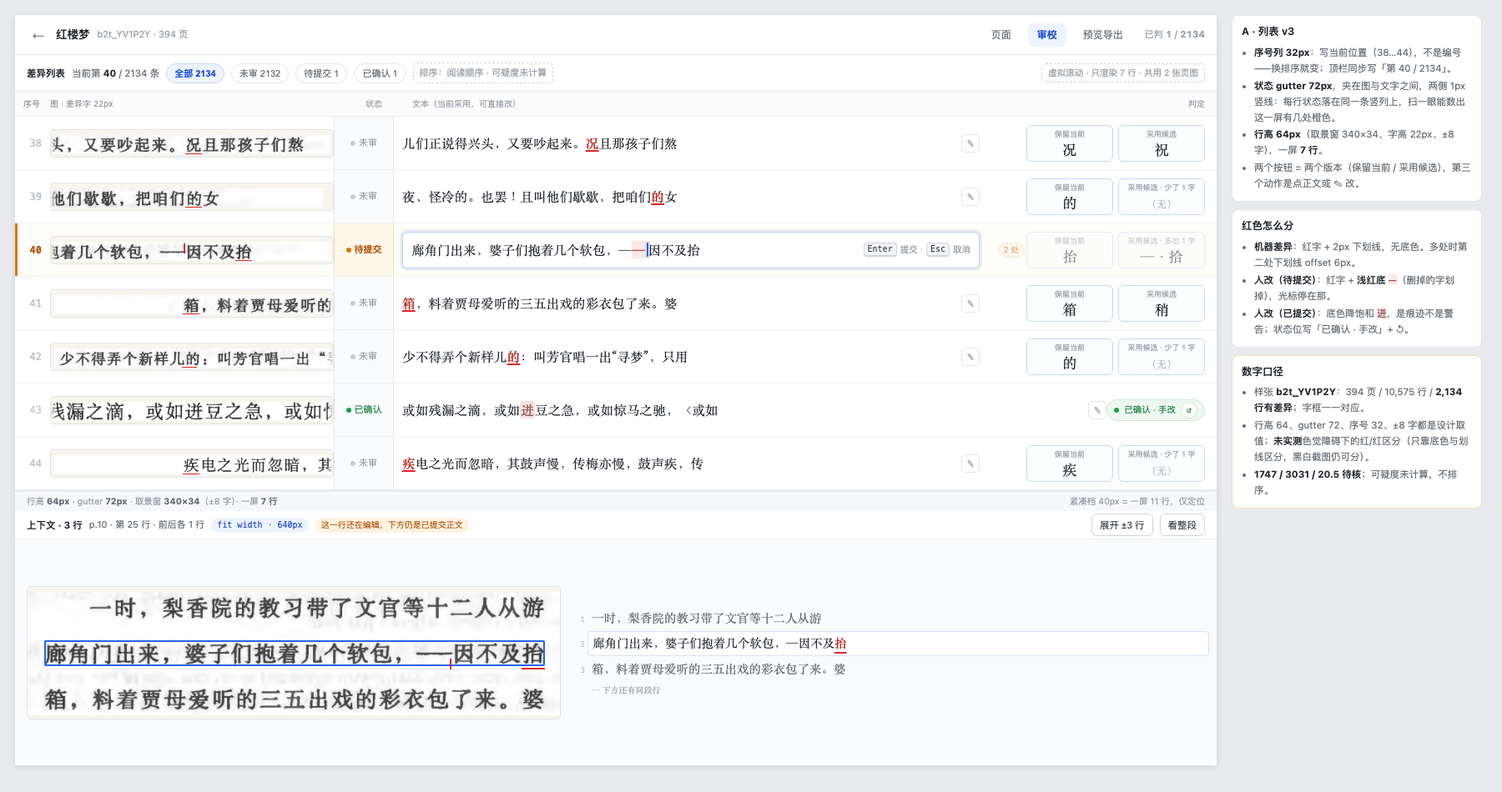
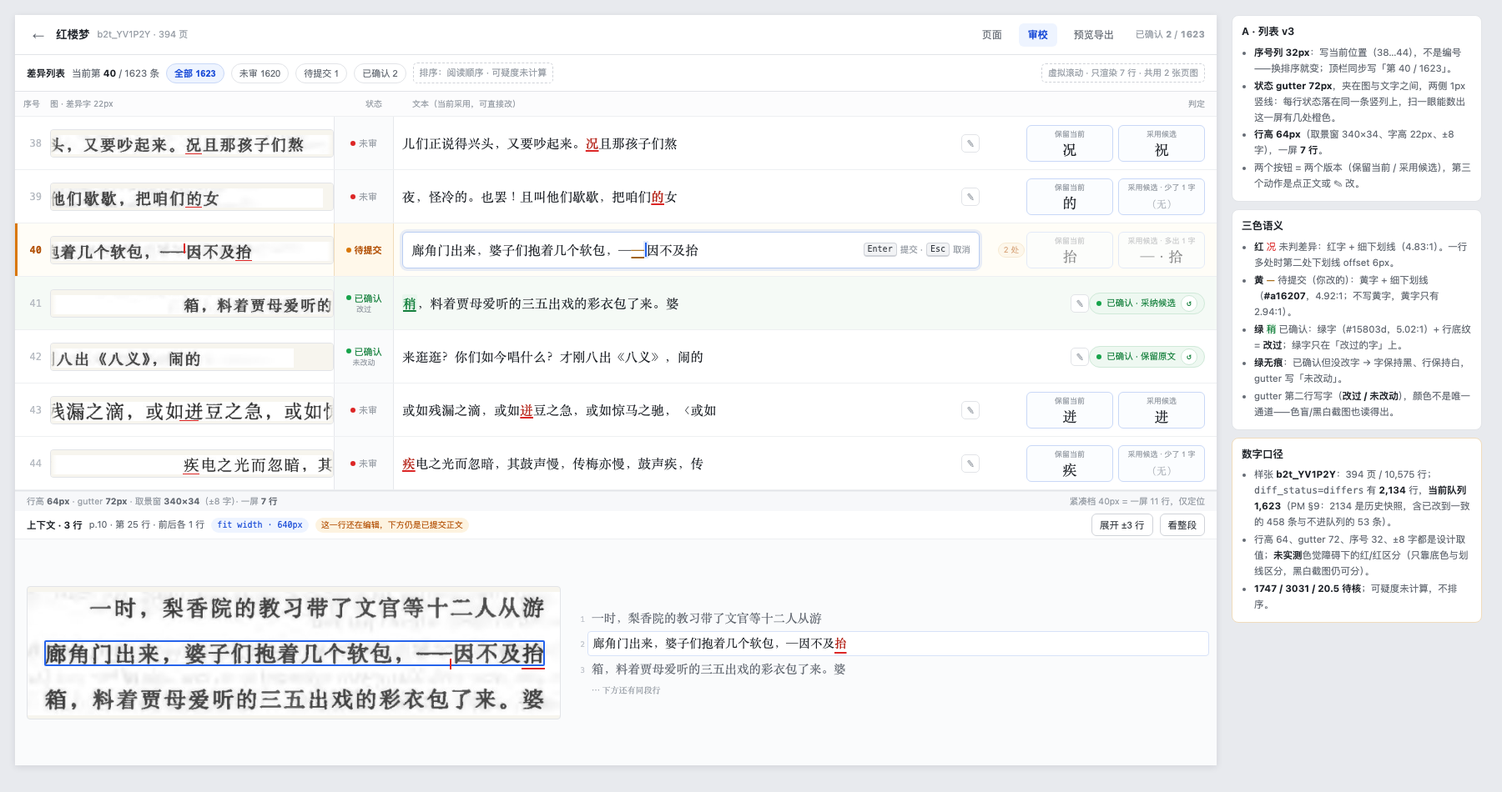
docs(ux): 四态同屏帧 C + 三色语义（红/黄/绿）与展开条；队列分母改 1623

diff --git a/docs/ux/review-cat-list-v3-mockup.html b/docs/ux/review-cat-list-v3-mockup.html
@@ -34,6 +34,8 @@ body{font:13px/1.5 -apple-system,BlinkMacSystemFont,"Segoe UI","PingFang SC","Hi
 .lhd .c4{flex:1;padding-left:10px}.lhd .c5{width:270px;text-align:right}
 .row{height:64px;display:flex;align-items:center;padding:0 14px 0 10px;border-bottom:1px solid var(--line2);position:relative;background:#fff}
 .row.cur{background:#fffdf7}
+.row.done_changed{background:#f5faf6}
+.row.done_changed .gut{background:#f2f8f4}
 .row.cur::before{content:"";position:absolute;left:0;top:0;bottom:0;width:3px;background:var(--warn)}
 .no{width:32px;flex:none;font:12px/1 var(--mono);color:#b6bbc2;text-align:right;padding-right:10px}
 .row.cur .no{color:var(--warntext);font-weight:700}
@@ -49,14 +51,19 @@ body{font:13px/1.5 -apple-system,BlinkMacSystemFont,"Segoe UI","PingFang SC","Hi
   border-left:1px solid #e6e8ec;border-right:1px solid #e6e8ec;font-size:11px;color:var(--faint);background:#fafbfc}
 .row.cur .gut{background:#fff8ea;border-color:#f0dcbc}
 .gut .dot{width:6px;height:6px;border-radius:50%;background:#c8ccd2;flex:none}
+.gut{flex-direction:column;gap:1px;line-height:1.25}
+.gut .g1{display:flex;align-items:center;gap:4px;font-size:11px}
+.gut .g2{font-size:9px;color:var(--faint)}
+.gut.st-un .dot{background:#dc2626}
 .gut.st-ok{color:var(--oktext)}.gut.st-ok .dot{background:var(--ok)}
-.gut.st-ed{color:var(--warntext);font-weight:650}.gut.st-ed .dot{background:var(--warn)}
+.gut.st-ed{color:var(--warntext);font-weight:650}.gut.st-ed .dot{background:#d97706}
 .tx{flex:1;min-width:0;font:15.5px/1.5 var(--book);white-space:nowrap;overflow:hidden;text-overflow:ellipsis;color:var(--text);letter-spacing:.2px;padding-left:10px}
 .d{color:var(--bad);font-weight:600;text-decoration:underline;text-decoration-color:var(--ul);text-decoration-thickness:2px;text-underline-offset:3px}
 .d2{color:var(--bad);font-weight:600;text-decoration:underline;text-decoration-color:var(--ul);text-decoration-thickness:2px;text-underline-offset:6px}
-.hd{color:#8a4b44;background:#f6e2df;border-radius:2px;padding:0 1px}
-.e{color:var(--bad);font-weight:600;background:#fde7e4;border-radius:2px;padding:0 1px}
-.rm{color:#9c5148;background:#fde7e4;border-radius:2px;padding:0 1px;text-decoration:line-through;text-decoration-thickness:1.5px}
+.hd{color:#15803d;background:#eaf6ee;border-radius:2px;padding:0 1px}
+.chg{color:#15803d;font-weight:600;text-decoration:underline;text-decoration-color:#15803d;text-decoration-thickness:1.5px;text-underline-offset:3px;background:#eaf6ee;border-radius:2px;padding:0 1px}
+.e{color:#a16207;font-weight:600;text-decoration:underline;text-decoration-color:#a16207;text-decoration-thickness:1.5px;text-underline-offset:3px}
+.rm{color:#a16207;text-decoration:line-through;text-decoration-color:#a16207;text-decoration-thickness:1.5px}
 .ins{color:var(--bad);font-size:12px;vertical-align:2px;opacity:.75}
 .pen{width:22px;height:22px;flex:none;border:1px solid var(--line);background:#fff;border-radius:5px;color:var(--faint);font-size:11px;line-height:20px;text-align:center;padding:0;margin-left:8px}
 .field{flex:1;min-width:0;height:44px;display:flex;align-items:center;background:#fff;border:1px solid #b9cdf2;border-radius:6px;box-shadow:0 0 0 3px rgba(37,99,235,.10);padding:0 10px;margin-left:10px}
@@ -75,6 +82,17 @@ kbd{font:10px/1 var(--mono);background:#f2f3f5;border:1px solid var(--line3);bor
 .con{flex:none;display:flex;align-items:center;gap:6px;font-size:10.5px;color:var(--oktext);background:var(--oksoft);border:1px solid #cfe9d8;border-radius:14px;height:26px;padding:0 8px}
 .dotg{width:6px;height:6px;border-radius:50%;background:var(--ok)}
 .undo{width:20px;height:20px;border:1px solid #cfe9d8;background:#fff;border-radius:50%;font-size:10px;color:var(--oktext);line-height:18px;padding:0}
+.legend{height:46px;flex:none;display:flex;align-items:center;gap:18px;padding:0 16px;background:#fff;border-bottom:1px solid var(--line)}
+.lg{display:flex;align-items:center;gap:6px;font-size:11px;color:var(--muted)}
+.sw{width:22px;height:14px;border-radius:3px;border:1px solid var(--line3);display:inline-block}
+.sw.r{background:#fff;border-color:#f0c4c4;box-shadow:inset 0 -2px 0 #dc2626}
+.sw.y{background:#fff;border-color:#efd6ae;box-shadow:inset 0 -2px 0 #a16207}
+.sw.g1{background:#f5faf6;border-color:#cfe9d8;box-shadow:inset 0 -2px 0 #15803d}
+.sw.g2{background:#fff;border-color:#cfe9d8;box-shadow:inset 0 -2px 0 #15803d}
+.expand{display:flex;align-items:center;gap:10px;padding:0 14px 0 46px;height:40px;background:#fbfdfb;border-bottom:1px solid var(--line2);font-size:11.5px;color:var(--muted)}
+.expand .k{font-size:10px;color:#15803d;background:#eaf6ee;border-radius:9px;padding:1px 7px}
+.expand .v{font:13.5px/1.4 var(--book);color:var(--text)}
+.expand .arw{color:var(--faint)}
 .foot{height:24px;flex:none;display:flex;align-items:center;gap:10px;padding:0 14px;background:var(--s3);border-top:1px solid var(--line2);font-size:10.5px;color:var(--faint)}
 .foot b{color:var(--muted)}
 .ctx{flex:1;display:flex;flex-direction:column;min-height:0;background:var(--s2)}
@@ -124,16 +142,17 @@ kbd{font:10px/1 var(--mono);background:#f2f3f5;border:1px solid var(--line3);bor
 <div class="wrap"><div class="frame" id="FA" style="width:1440px;height:900px">
   <div class="top"><button class="ib">←</button><span class="bk">红楼梦</span><span class="sub">b2t_YV1P2Y · 394 页</span>
     <span class="spacer"></span><span class="tab">页面</span><span class="tab on">审校</span><span class="tab">预览导出</span>
-    <span class="sub" style="margin-left:6px">已判 <b class="num">1</b> / <b class="num">2134</b></span></div>
-  <div class="bar"><b>差异列表</b><span>当前第 <b class="num">40</b> / 2134 条</span>
-    <button class="fchip on">全部 2134</button><button class="fchip">未审 2132</button><button class="fchip">待提交 1</button><button class="fchip">已确认 1</button>
+    <span class="sub" style="margin-left:6px">已确认 <b class="num">2</b> / <b class="num">1623</b></span></div>
+  <div class="bar"><b>差异列表</b><span>当前第 <b class="num">40</b> / 1623 条</span>
+    <button class="fchip on">全部 1623</button><button class="fchip">未审 1620</button><button class="fchip">待提交 1</button><button class="fchip">已确认 2</button>
     <span class="sort">排序：阅读顺序 · 可疑度未计算</span>
     <span class="spacer"></span><span class="virt">虚拟滚动 · 只渲染 7 行 · 共用 2 张页图</span></div>
   <div class="list"><div class="lhd"><span class="c c1">序号</span><span class="c c2">图 · 差异字 22px</span><span class="c c3">状态</span><span class="c c4">文本（当前采用，可直接改）</span><span class="c c5">判定</span></div>
     <div class="row un">
   <div class="no">38</div>
   <div class="shot"><div class="im pg10" style="background-size:760.2px 1145.8px;background-position:-333.2px -622.1px"><i class="u" style="left:160.9px;top:22.0px;width:20.5px"></i></div></div>
-  <div class="gut st-un"><span class="dot"></span>未审</div>
+  <div class="gut st-un"><span class="g1"><span class="dot"></span>未审</span>
+    </div>
   <span class="tx">儿们正说得兴头，又要吵起来。<span class="d">况</span>且那孩子们熬</span><button class="pen" title="直接改这一行">✎</button>
   <div class="vwrap">
       <button class="vbtn"><span class="vl">保留当前</span><span class="vc">况</span></button>
@@ -142,7 +161,8 @@ kbd{font:10px/1 var(--mono);background:#f2f3f5;border:1px solid var(--line3);bor
 </div><div class="row un">
   <div class="no">39</div>
   <div class="shot"><div class="im pg10" style="background-size:760.2px 1145.8px;background-position:-434.7px -661.2px"><i class="u" style="left:160.6px;top:22.0px;width:20.5px"></i></div></div>
-  <div class="gut st-un"><span class="dot"></span>未审</div>
+  <div class="gut st-un"><span class="g1"><span class="dot"></span>未审</span>
+    </div>
   <span class="tx">夜，怪冷的。也罢！且叫他们歇歇，把咱们<span class="d">的</span>女</span><button class="pen" title="直接改这一行">✎</button>
   <div class="vwrap">
       <button class="vbtn"><span class="vl">保留当前</span><span class="vc">的</span></button>
@@ -151,40 +171,42 @@ kbd{font:10px/1 var(--mono);background:#f2f3f5;border:1px solid var(--line3);bor
 </div><div class="row edit cur">
   <div class="no">40</div>
   <div class="shot"><div class="im pg10" style="background-size:760.2px 1145.8px;background-position:-395.6px -936.8px"><i class="v" style="left:159.2px;top:2px"></i><i class="u" style="left:220.7px;top:22.0px;width:20.5px"></i></div></div>
-  <div class="gut st-ed"><span class="dot"></span>待提交</div>
+  <div class="gut st-ed"><span class="g1"><span class="dot"></span>待提交</span>
+    </div>
   <span class="field"><span class="ftx">廊角门出来，婆子们抱着几个软包，—<span class="e">—</span><i class="caret"></i>因不及抬</span><span class="hint"><kbd>Enter</kbd> 提交 · <kbd>Esc</kbd> 取消</span></span>
   <div class="vwrap dim"><span class="badge">2 处</span>
       <button class="vbtn"><span class="vl">保留当前</span><span class="vc">抬</span></button>
       <button class="vbtn"><span class="vl">采用候选 · 多出 1 字</span><span class="vc">—·拾</span></button>
     </div>
-</div><div class="row un">
+</div><div class="row done_changed">
   <div class="no">41</div>
-  <div class="shot"><div class="im pg10" style="background-size:739.7px 1114.9px;background-position:-42.3px -949.5px"><i class="u" style="left:158.1px;top:22.0px;width:20.0px"></i></div></div>
-  <div class="gut st-un"><span class="dot"></span>未审</div>
-  <span class="tx"><span class="d">箱</span>，料着贾母爱听的三五出戏的彩衣包了来。婆</span><button class="pen" title="直接改这一行">✎</button>
-  <div class="vwrap">
-      <button class="vbtn"><span class="vl">保留当前</span><span class="vc">箱</span></button>
-      <button class="vbtn"><span class="vl">采用候选</span><span class="vc">稍</span></button>
-    </div>
-</div><div class="row un">
+  <div class="shot"><div class="im pg10" style="background-size:739.7px 1114.9px;background-position:-42.3px -949.5px"></div></div>
+  <div class="gut st-ok"><span class="g1"><span class="dot"></span>已确认</span>
+    <span class="g2">改过</span></div>
+  <span class="tx"><span class="chg">稍</span>，料着贾母爱听的三五出戏的彩衣包了来。婆</span><button class="pen" title="直接改这一行">✎</button>
+  <span class="con"><span class="dotg"></span>已确认 · 采纳候选<button class="undo" title="撤销这一条（batch /undo）">↺</button></span>
+</div><div class="row done_kept">
   <div class="no">42</div>
-  <div class="shot"><div class="im pg11" style="background-size:701.7px 1057.7px;background-position:-164.5px -292.1px"><i class="u" style="left:156.8px;top:22.0px;width:18.4px"></i></div></div>
-  <div class="gut st-un"><span class="dot"></span>未审</div>
-  <span class="tx">少不得弄个新样儿<span class="d">的</span>：叫芳官唱一出“寻梦”，只用</span><button class="pen" title="直接改这一行">✎</button>
-  <div class="vwrap">
-      <button class="vbtn"><span class="vl">保留当前</span><span class="vc">的</span></button>
-      <button class="vbtn"><span class="vl">采用候选 · 少了 1 字</span><span class="vc"><b class="nil">（无）</b></span></button>
-    </div>
-</div><div class="row done">
+  <div class="shot"><div class="im pg11" style="background-size:760.2px 1145.8px;background-position:-468.9px -70.9px"></div></div>
+  <div class="gut st-ok"><span class="g1"><span class="dot"></span>已确认</span>
+    <span class="g2">未改动</span></div>
+  <span class="tx">来逛逛？你们如今唱什么？才刚八出《八义》，闹的</span><button class="pen" title="直接改这一行">✎</button>
+  <span class="con"><span class="dotg"></span>已确认 · 保留原文<button class="undo" title="撤销这一条（batch /undo）">↺</button></span>
+</div><div class="row un">
   <div class="no">43</div>
-  <div class="shot"><div class="im pg12" style="background-size:912.3px 1375.0px;background-position:-270.7px -1072.4px"></div></div>
-  <div class="gut st-ok"><span class="dot"></span>已确认</div>
-  <span class="tx">或如残漏之滴，或如<span class="hd">迸</span>豆之急，或如惊马之驰，〈或如</span><button class="pen" title="直接改这一行">✎</button>
-  <span class="con"><span class="dotg"></span>已确认 · 手改<button class="undo" title="撤销这一条（batch /undo）">↺</button></span>
+  <div class="shot"><div class="im pg12" style="background-size:912.3px 1375.0px;background-position:-270.7px -1072.4px"><i class="u" style="left:153.8px;top:22.0px;width:22.9px"></i></div></div>
+  <div class="gut st-un"><span class="g1"><span class="dot"></span>未审</span>
+    </div>
+  <span class="tx">或如残漏之滴，或如<span class="d">迸</span>豆之急，或如惊马之驰，〈或如</span><button class="pen" title="直接改这一行">✎</button>
+  <div class="vwrap">
+      <button class="vbtn"><span class="vl">保留当前</span><span class="vc">迸</span></button>
+      <button class="vbtn"><span class="vl">采用候选</span><span class="vc">进</span></button>
+    </div>
 </div><div class="row un">
   <div class="no">44</div>
   <div class="shot"><div class="im pg12" style="background-size:760.2px 1145.8px;background-position:-22.2px -932.5px"><i class="u" style="left:157.5px;top:22.0px;width:20.1px"></i></div></div>
-  <div class="gut st-un"><span class="dot"></span>未审</div>
+  <div class="gut st-un"><span class="g1"><span class="dot"></span>未审</span>
+    </div>
   <span class="tx"><span class="d">疾</span>电之光而忽暗，其鼓声慢，传梅亦慢，鼓声疾，传</span><button class="pen" title="直接改这一行">✎</button>
   <div class="vwrap">
       <button class="vbtn"><span class="vl">保留当前</span><span class="vc">疾</span></button>
@@ -199,18 +221,20 @@ kbd{font:10px/1 var(--mono);background:#f2f3f5;border:1px solid var(--line3);bor
     <div class="cbody"><div class="cimg" style="width:640px;height:160px"><div class="im pg10" style="top:6px;height:148px;background-size:1060.4px 1598.3px;background-position:-268.2px -1249.9px"></div><div class="box" style="left:19.9px;top:64.6px;width:600.1px;height:30.7px"></div><i class="cmi" style="left:505.8px;top:86.8px"></i><i class="cm" style="left:591.5px;top:97.8px;width:28.6px"></i></div><div class="ctext"><div class="cl"><span class="n">1</span><span class="t">一时，梨香院的教习带了文官等十二人从游</span></div><div class="cl cur"><span class="n">2</span><span class="t">廊角门出来，婆子们抱着几个软包，—因不及<span class="d d2">抬</span></span></div><div class="cl"><span class="n">3</span><span class="t">箱，料着贾母爱听的三五出戏的彩衣包了来。婆</span></div><div class="cont">⋯ 下方还有同段行</div></div></div></div>
 </div><aside class="notes">
 <div class="card"><h3>A · 列表 v3</h3><ul>
-<li><b>序号列 32px</b>：写当前位置（38…44），不是编号——换排序就变；顶栏同步写「第 40 / 2134」。</li>
+<li><b>序号列 32px</b>：写当前位置（38…44），不是编号——换排序就变；顶栏同步写「第 40 / 1623」。</li>
 <li><b>状态 gutter 72px</b>，夹在图与文字之间，两侧 1px 竖线：每行状态落在同一条竖列上，扫一眼能数出这一屏有几处橙色。</li>
 <li><b>行高 64px</b>（取景窗 340×34、字高 22px、±8 字），一屏 <b>7 行</b>。</li>
 <li>两个按钮 = 两个版本（保留当前 / 采用候选），第三个动作是点正文或 ✎ 改。</li>
 </ul></div>
-<div class="card"><h3>红色怎么分</h3><ul>
-<li><b>机器差异</b>：红字 + 2px 下划线，无底色。多处时第二处下划线 offset 6px。</li>
-<li><b>人改（待提交）</b>：红字 + <b>浅红底</b> <span style="background:#fde7e4;color:#b42318">—</span>（删掉的字划掉），光标停在那。</li>
-<li><b>人改（已提交）</b>：底色降饱和 <span style="background:#f6e2df;color:#8a4b44">迸</span>，是痕迹不是警告；状态位写「已确认 · 手改」+ ↺。</li>
+<div class="card"><h3>三色语义</h3><ul>
+<li><b>红</b> <span style="color:#dc2626">况</span> 未判差异：红字 + 细下划线（4.83:1）。一行多处时第二处下划线 offset 6px。</li>
+<li><b>黄</b> <span style="color:#a16207">—</span> 待提交（你改的）：黄字 + 细下划线（<b>#a16207</b>，4.92:1；不写黄字，黄字只有 2.94:1）。</li>
+<li><b>绿</b> <span style="color:#15803d;background:#eaf6ee">稍</span> 已确认：绿字（#15803d，5.02:1）+ 行底纹 = <b>改过</b>；绿字只在「改过的字」上。</li>
+<li><b>绿无痕</b>：已确认但没改字 → 字保持黑、行保持白，gutter 写「未改动」。</li>
+<li>gutter 第二行写字（<b>改过 / 未改动</b>），颜色不是唯一通道——色盲/黑白截图也读得出。</li>
 </ul></div>
 <div class="card warnbox"><h3>数字口径</h3><ul>
-<li>样张 <b>b2t_YV1P2Y</b>：394 页 / 10,575 行 / <b>2,134 行有差异</b>；字框一一对应。</li>
+<li>样张 <b>b2t_YV1P2Y</b>：394 页 / 10,575 行；<code>diff_status=differs</code> 有 <b>2,134</b> 行，<b>当前队列 1,623</b>（PM §9：2134 是历史快照，含已改到一致的 458 条与不进队列的 53 条）。</li>
 <li>行高 64、gutter 72、序号 32、±8 字都是设计取值；<b>未实测</b>色觉障碍下的红/红区分（只靠底色与划线区分，黑白截图仍可分）。</li>
 <li><b>1747 / 3031 / 20.5 待核</b>；可疑度未计算，不排序。</li>
 </ul></div>
@@ -245,9 +269,76 @@ kbd{font:10px/1 var(--mono);background:#f2f3f5;border:1px solid var(--line3);bor
 <li>11/9：差异「的」在行中段（第 9/24 字），居中后两侧都留着上下文；段首/段尾的条目居中会一边空。</li>
 </ul></div>
 </aside></div>
+<div class="wrap"><div class="frame" id="FC" style="width:1180px;height:430px">
+  <div class="top"><button class="ib">←</button><span class="bk">四态同屏</span><span class="sub">b2t_YV1P2Y · 同一屏里四条</span>
+    <span class="spacer"></span><span class="fchip on">图例常驻</span></div>
+  <div class="legend">
+    <span class="lg"><span class="sw r"></span>红 = 未判差异（两引擎不一致）</span>
+    <span class="lg"><span class="sw y"></span>黄 = 待提交（你改的，还没提交）</span>
+    <span class="lg"><span class="sw g1"></span>绿 + 底纹 = 已确认 · 改过</span>
+    <span class="lg"><span class="sw g2"></span>绿 无底纹 = 已确认 · 保留原文</span>
+  </div>
+  <div class="list" style="border-bottom:0"><div class="row un">
+  <div class="no">38</div>
+  <div class="shot"><div class="im pg10" style="background-size:760.2px 1145.8px;background-position:-333.2px -622.1px"><i class="u" style="left:160.9px;top:22.0px;width:20.5px"></i></div></div>
+  <div class="gut st-un"><span class="g1"><span class="dot"></span>未审</span>
+    </div>
+  <span class="tx">儿们正说得兴头，又要吵起来。<span class="d">况</span>且那孩子们熬</span><button class="pen" title="直接改这一行">✎</button>
+  <div class="vwrap">
+      <button class="vbtn"><span class="vl">保留当前</span><span class="vc">况</span></button>
+      <button class="vbtn"><span class="vl">采用候选</span><span class="vc">祝</span></button>
+    </div>
+</div><div class="row edit cur">
+  <div class="no">39</div>
+  <div class="shot"><div class="im pg10" style="background-size:760.2px 1145.8px;background-position:-395.6px -936.8px"><i class="v" style="left:159.2px;top:2px"></i><i class="u" style="left:220.7px;top:22.0px;width:20.5px"></i></div></div>
+  <div class="gut st-ed"><span class="g1"><span class="dot"></span>待提交</span>
+    </div>
+  <span class="field"><span class="ftx">廊角门出来，婆子们抱着几个软包，—<span class="e">—</span><i class="caret"></i>因不及抬</span><span class="hint"><kbd>Enter</kbd> 提交 · <kbd>Esc</kbd> 取消</span></span>
+  <div class="vwrap dim"><span class="badge">2 处</span>
+      <button class="vbtn"><span class="vl">保留当前</span><span class="vc">抬</span></button>
+      <button class="vbtn"><span class="vl">采用候选 · 多出 1 字</span><span class="vc">—·拾</span></button>
+    </div>
+</div><div class="row done_changed">
+  <div class="no">40</div>
+  <div class="shot"><div class="im pg10" style="background-size:739.7px 1114.9px;background-position:-42.3px -949.5px"></div></div>
+  <div class="gut st-ok"><span class="g1"><span class="dot"></span>已确认</span>
+    <span class="g2">改过</span></div>
+  <span class="tx"><span class="chg">稍</span>，料着贾母爱听的三五出戏的彩衣包了来。婆</span><button class="pen" title="直接改这一行">✎</button>
+  <span class="con"><span class="dotg"></span>已确认 · 采纳候选<button class="undo" title="撤销这一条（batch /undo）">↺</button></span>
+</div><div class="row done_kept">
+  <div class="no">41</div>
+  <div class="shot"><div class="im pg11" style="background-size:760.2px 1145.8px;background-position:-468.9px -70.9px"></div></div>
+  <div class="gut st-ok"><span class="g1"><span class="dot"></span>已确认</span>
+    <span class="g2">未改动</span></div>
+  <span class="tx">来逛逛？你们如今唱什么？才刚八出《八义》，闹的</span><button class="pen" title="直接改这一行">✎</button>
+  <span class="con"><span class="dotg"></span>已确认 · 保留原文<button class="undo" title="撤销这一条（batch /undo）">↺</button></span>
+</div>
+    <div class="expand"><span class="k">判过</span><span>保留原文</span>
+      <span class="v">第二引擎：…八出《八义》，闹</span><span class="arw">→</span>
+      <span class="v">当前：…八出《八义》，闹的</span>
+      <span class="spacer"></span><span>判于 23:41</span><button class="btn">撤销这一条</button></div>
+  </div>
+</div><aside class="notes">
+<div class="card"><h3>C · 四态同屏</h3><ul>
+<li>红 = 未判差异；黄 = 待提交（手改、没提交）；绿 = 已确认。绿分两种：<b>带底纹 = 改过</b>，<b>无底纹 = 保留原文</b>。</li>
+<li>底色不是唯一通道：gutter 第二行写字（<b>改过 / 未改动</b>），黑白截图也读得出。</li>
+<li>为什么「保留原文」也是绿：判过就是确认，只是没改字；区别用底纹表达，不用颜色。</li>
+</ul></div>
+<div class="card"><h3>展开条回答「从什么改成什么」</h3><ul>
+<li>这一行的两个版本都还在库里：<code>aux_text</code>（第二引擎）+ 当前文本；展开条并排给出「第二引擎 … → 当前 …」，再加动作、时间和撤销。</li>
+<li><b>采纳候选</b>的行没有这个对照——采纳后当前文本就等于第二引擎，两者一致；那种行只显示「改过 · 采纳候选 · 时间」。</li>
+<li><b>手改</b>的行同理：库里没有改前的行文本（<code>block_line.text</code> 随编辑同步），v1 只能给「采纳/手改 + 时间」，要「改前 → 改后」得加列（迁移），不在 v1。</li>
+</ul></div>
+<div class="card warnbox"><h3>颜色口径</h3><ul>
+<li>红 <code>#dc2626</code> 4.83:1、黄 <code>#a16207</code> 4.92:1、绿 <code>#15803d</code> 5.02:1（白底，22px 正文）。</li>
+<li>红/黄/绿在红绿色盲模拟下都偏橄榄——所以状态词和「改过/未改动」必须写出来，不能只靠色相。</li>
+<li>这套图例只在审校页用；预览页不画机器差异，别共用图例（那里红色永远不亮）。</li>
+</ul></div>
+</aside></div>
 <script>
-const m=(location.search.match(/f=([AB])/)||[])[1];
-if(m==='A'){document.querySelectorAll('.wrap')[1].style.display='none';}
-if(m==='B'){document.querySelectorAll('.wrap')[0].style.display='none';}
+const m=(location.search.match(/f=([ABC])/i)||[])[1];
+const wraps=Array.from(document.querySelectorAll('.wrap'));
+const idx={A:0,B:1,C:2}[m]!==undefined?{A:0,B:1,C:2}[m]:-1;
+wraps.forEach(function(w,k){ if(idx>=0 && k!==idx) w.style.display='none'; });
 </script>
 </body></html>

diff --git a/docs/ux/review-cat-list-v3.md b/docs/ux/review-cat-list-v3.md
@@ -1,7 +1,7 @@
 # CAT 列表 v3 · 设计说明（2026-11-05）
 
 样张 `b2t_YV1P2Y`（394 页 / 10,575 行 / **2,134 行有差异**；字框 10,575 与 10,575 一一对应；`jev_score` 全空）。
-看单帧：`review-cat-list-v3-mockup.html?f=A`、`?f=B`。
+看单帧：`review-cat-list-v3-mockup.html?f=A`（列表四态）、`?f=B`（3 行居中对照）、`?f=C`（四态同屏 + 展开条）。
 
 ## 0. 用户五条的落法
 
@@ -12,6 +12,7 @@
 | ③ 状态移到图与文字之间 | **状态 gutter 72px**，两侧 1px 竖线、浅底色；每行状态落在同一条竖列上 | A |
 | ④ 人改内容也红色 | 机器差异 = 红字+下划线；**人改 = 红字 + 浅红底**（删掉的字划掉）；**已提交 = 同底色降饱和** | A |
 | ⑤ 左右都居中 | 左图按差异字居中；右文本把差异字平移到列中心（前 12 / 后 12 字，两端 ⋯） | B |
+| ⑥ 确认后要能看出改过 | 三色语义 + 绿底纹 = 改过；gutter 第二行写字；展开条给「第二引擎 → 当前」+ 动作 + 时间 | A、C |
 
 ## 1. 三个取舍的答案
 
@@ -75,3 +76,31 @@
 - 7 行态（展开 ±3 行）与"看整段"的滚动形态只写了按钮，没画第二态。
 - 多选模式（PM §8.5）没画。
 - 可疑度排序（数据没有分数）。
+
+
+## 6. 三色语义（2026-11-05 用户定死）
+
+| 态 | 字色 | 底色 | gutter | 说明 |
+|---|---|---|---|---|
+| 未判差异 | 红 `#dc2626` + 细下划线 | 无 | 红点 · 未审 | 两引擎不一致，还没裁 |
+| 待提交（手改） | 黄 `#a16207` + 细下划线 | 无 | 黄点 · 待提交 | 你改了没提交；删掉的字划掉 |
+| 已确认 · 改过 | 绿 `#15803d` + 细下划线 | 行底纹 `#f5faf6` | 绿点 · 已确认 / 改过 | 采纳了候选或手改过 |
+| 已确认 · 保留原文 | 黑（不染） | 无 | 绿点 · 已确认 / 未改动 | 判过但没改字 |
+
+- 黄字只能到 `#a16207`（4.92:1）；用户原话的「黄字」若用 `#ca8a04` 只有 2.94:1，22px 正文不合格——**色相保住了，亮度压下来了**。
+- 红/黄/绿在红绿色盲模拟下都偏橄榄，所以 gutter 第二行必须写字（改过 / 未改动），颜色不是唯一通道。
+- **绿字只在「改过的字」上**：采纳候选后当前文本 = 候选，`block_line` 里没有旧文本，刷新后重建不出「哪几个字变了」——那时只剩行底纹 + gutter 的「改过」+ 展开条。**这不是 bug**，持久痕迹靠 `diff_ack` + 底纹，字色是会话级增强（PM §9 同口径）。
+- 这套图例只在审校页用：预览页不画机器差异，红色在那里永远不亮，共用一个图例会被当成 bug 报。
+
+### 展开条回答「从什么改成什么」
+
+- 展开行长这样：`判过 · 保留原文　第二引擎：…八出《八义》，闹 → 当前：…八出《八义》，闹的　判于 23:41　[撤销这一条]`。
+- 两个版本都在库里：`aux_text`（第二引擎）+ 当前文本，加 `diff_ack` 和 event 时间，不用新存储。
+- **采納候选的行没有这个对照**：采纳后当前文本就等于第二引擎，两者一致；那种行只显示「改过 · 采纳候选 · 时间」。
+- **手改的行同理**：库里没有改前的行文本（`block_line.text` 随编辑同步），v1 只能给「手改 + 时间」；要「改前 → 改后」得加列（迁移），不在 v1。
+
+## 7. 数字（v3 修正）
+
+- 队列分母 = **1,623**（当前 `marks`/队列行数，与列表行数同源）；`diff_status='differs'` 的 **2,134** 是历史快照（含 458 条已改到一致、53 条不进队列）。图上写「当前第 40 / 1623」。
+- 切排序（阅读顺序 / 可疑度）时总数不变、位置变；序号就是位置。
+- 1747 / 3031 / 20.5 仍标「待核」。
